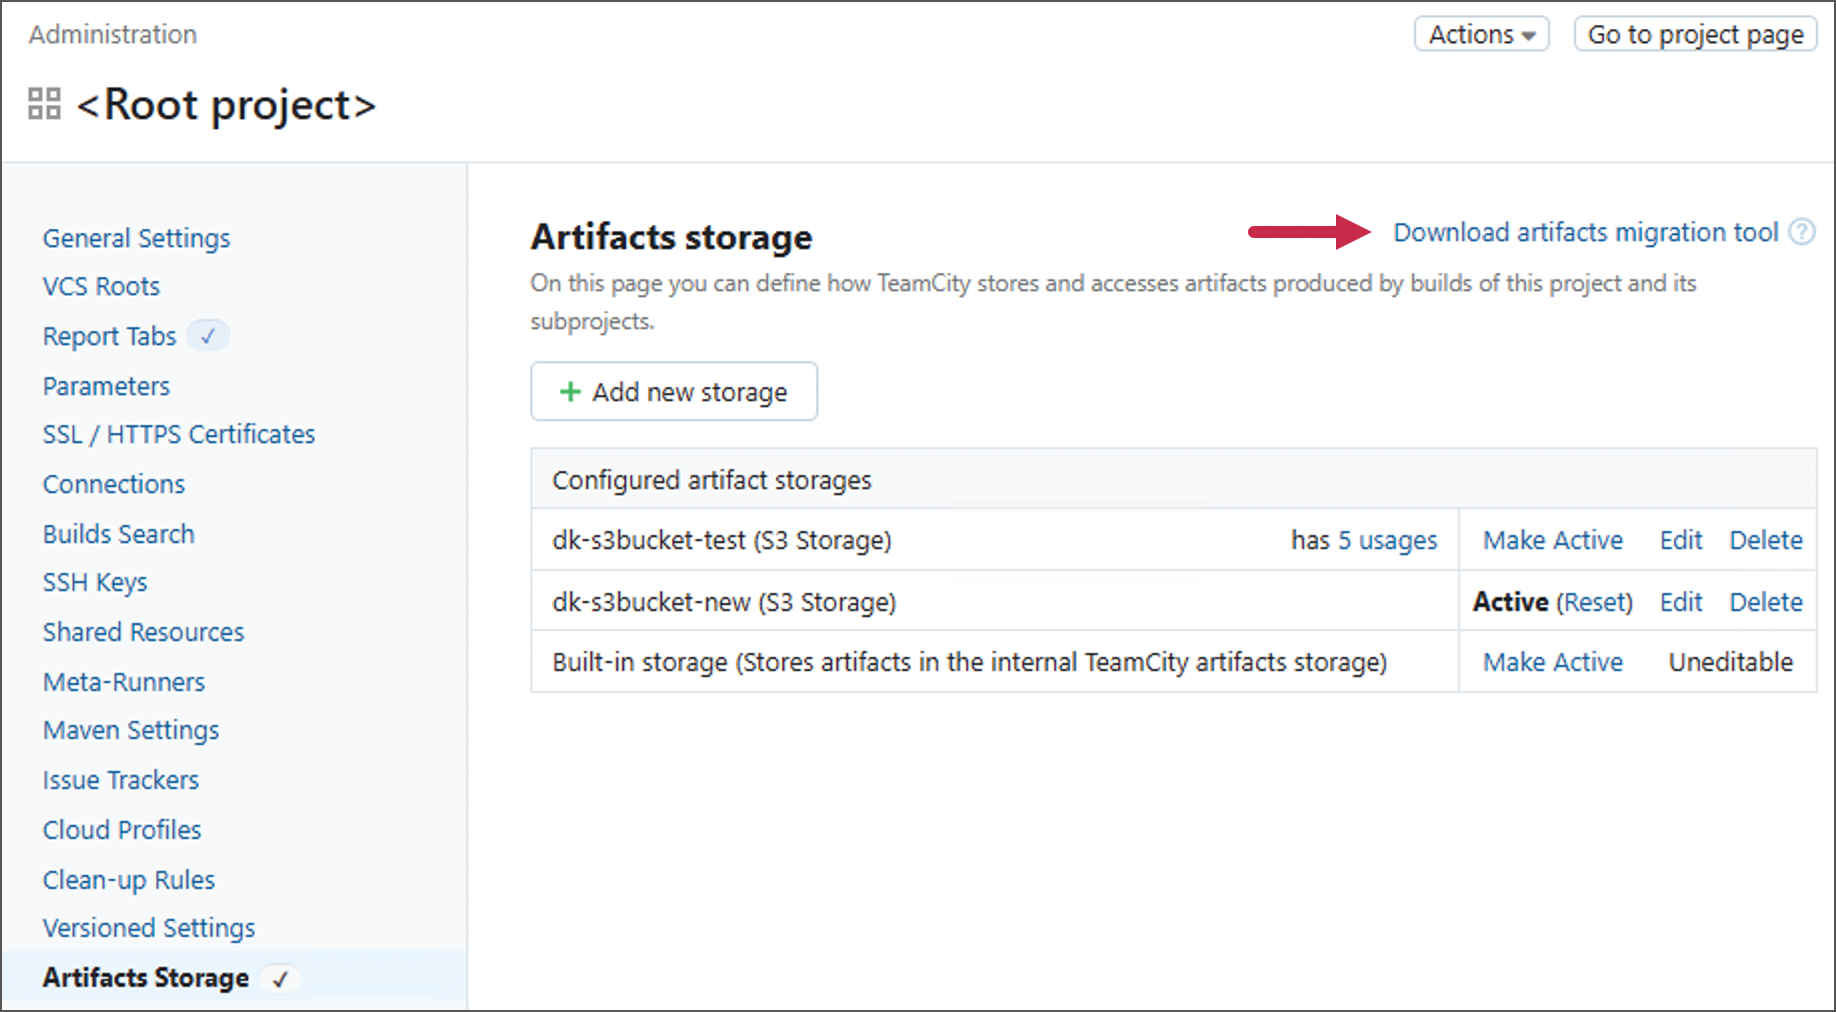
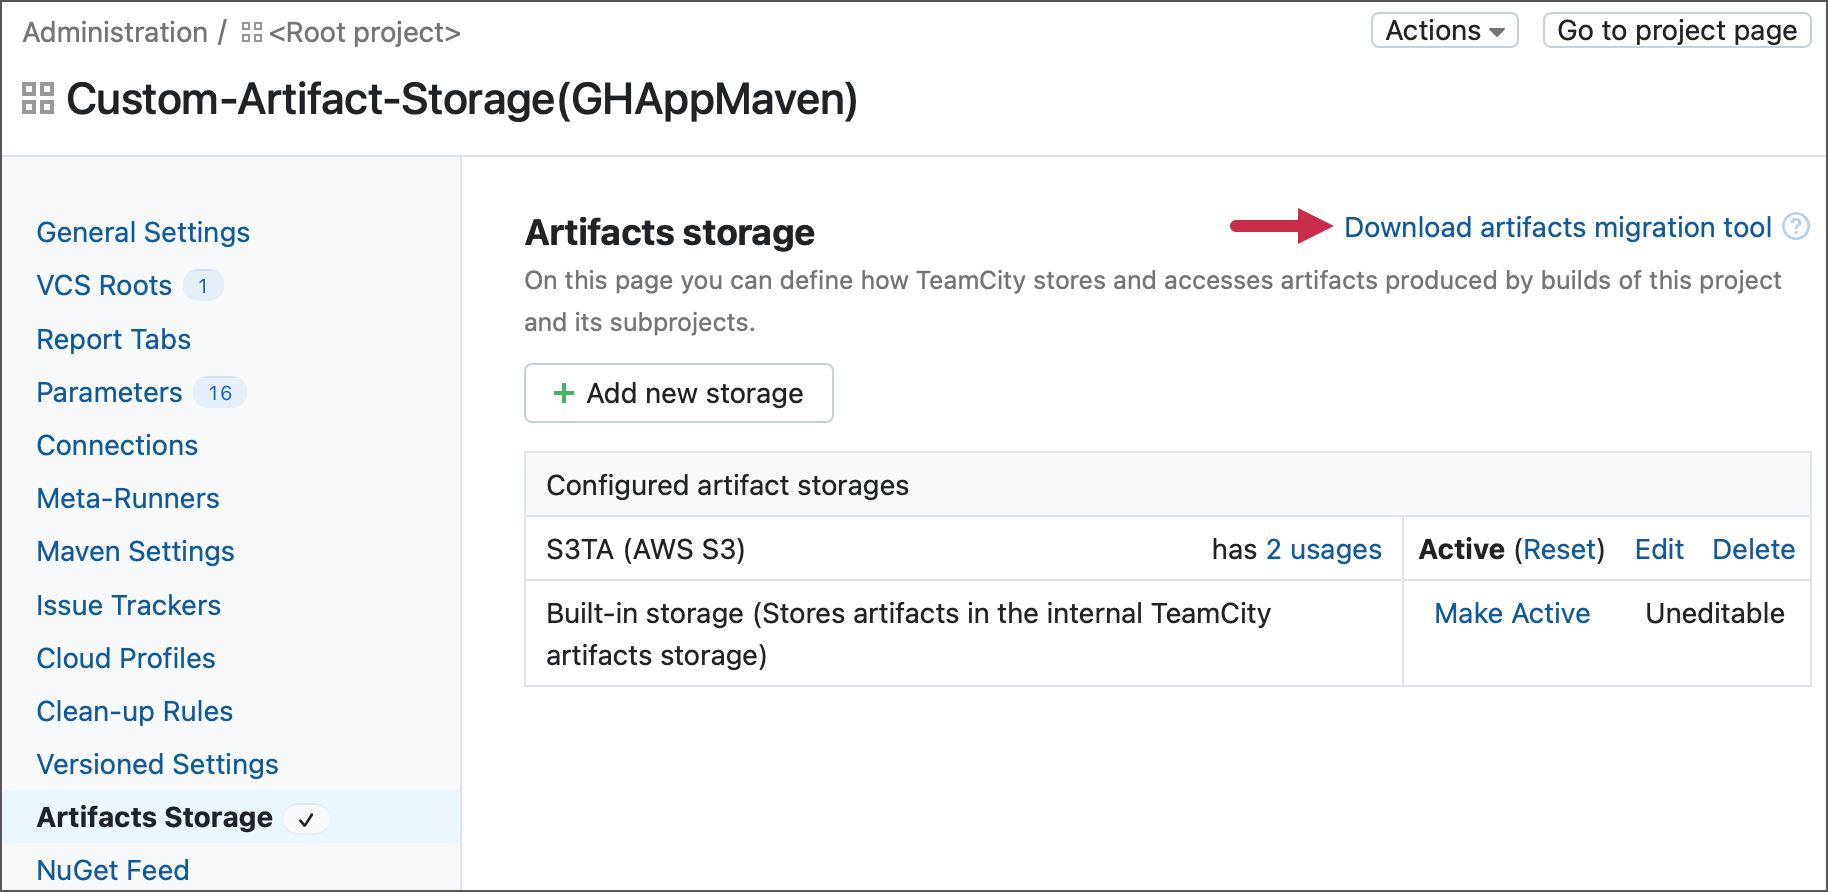
TW-80727, TW-83811, TW-83125, TW-83856 -- S3 redesign updates

diff --git a/topics/storing-build-artifacts-in-amazon-s3.md b/topics/storing-build-artifacts-in-amazon-s3.md
@@ -8,74 +8,82 @@ It is possible to replace the TeamCity built-in artifacts' storage with [Amazon 
 * handles resolution of artifact dependencies as well as clean-up of artifacts;
 * displays artifacts located externally in the TeamCity UI.
 
-<include src="configuring-artifacts-storage.md" include-id="artifactMigrationToS3"/>
 
-## Configuring Amazon S3 Artifacts Storage
-{id="configuring-amazon-s3-artifacts-storage"}
+## Create and Set Up a New AWS S3 Storage
 
-To enable an external artifact storage in an AWS S3 bucket:
-1. Open __Project Settings | Artifacts Storage__. The built-in TeamCity artifacts storage is displayed by default and marked as active.
-2. Click __Add new storage__. Select _S3 Storage_ as the storage type. 
-3. [__Storage ID__](identifier.md) is filled out automatically. You can modify it with your own unique ID.
-4. Enter an optional name for your storage.
-5. Select the AWS environment and provide the required settings.
-6. Provide your AWS security credentials.
-7. Specify an existing S3 bucket to store artifacts.
-8. Save your settings.
+1. Navigate to the **Administration | &lt;Your_Project&gt;** page and switch to the **Artifacts Storage** tab.
 
-The configured S3 storage will appear on the __Artifacts Storage__ page. To enable it in this project, change its state to _Active_.
+   * Open settings of a &lt;Root project&gt; if you want your new storage to be available for all TeamCity projects.
+   * Edit one specific project if your new storage should be available only for this project and its sub-projects.
 
-Now, new artifacts produced by builds of this project and its subprojects will be stored in the specified AWS S3 bucket.
+2. The built-in TeamCity artifacts storage is displayed by default and marked as active. Click **Add new storage** button to create a new storage.
 
-<anchor name="pathPrefix"/>
+3. Specify the custom storage name and, if needed, its internal [ID](identifier.md).
 
-## Path Prefix
+4. Set the **Type** field to "AWS S3".
 
-You can set an S3 [path prefix](https://docs.aws.amazon.com/AmazonS3/latest/user-guide/using-folders.html). This allows using the same S3 bucket for all TeamCity projects and configure prefix-based permissions.
+5. Choose an existing [AWS Connection](configuring-connections.md#AmazonWebServices) that TeamCity should use to access your Amazon resources.<anchor name="permissions"/> A user whose credentials the selected AWS Connection uses (or an IAM Role it assumes) to access the S3 buckets should have the following permissions:
 
-<anchor name="forceVirtualHostAddressing"/>
+   * `ListAllMyBuckets`
+   * `GetBucketLocation`
+   * `GetObject`
+   * `ListBucket`
+   * `PutObject`
+   * `DeleteObject`
+   * `GetAccelerateConfiguration` (if [Transfer Acceleration](#TransferAcceleration) is enabled)
+    
+    > <anchor name="transferToConnection"/>In previous TeamCity versions, the **Artifacts Storage** dialog allowed you to explicitly specify connection settings: access key credentials, user IAM role, and whether TeamCity should look for credentails in the default AWS locations (the **Default provider chain** setting).
+    > 
+    > Starting with version 2023.11, these settings are exclusive to [AWS Connections](configuring-connections.md#AmazonWebServices). If you're migrating from an older version of TeamCity and your existing storages used any of these settings, click the **Convert to AWS Connection** link. This action transfers AWS-related settings to a new AWS Connection, and selects this new connection as the source connection of your storage.
+    >
+    {type="tip"}
+    
+6. TeamCity uses the selected AWS Connection to retrieve the list of available S3 buckets. Open the **Bucket** drop-down menu to choose a specific item from the list.
 
-## Virtual Host Addressing
+7. <anchor name="pathPrefix"/>(Optional) Specify the [path prefix](https://docs.aws.amazon.com/AmazonS3/latest/user-guide/using-folders.html) if you want to use the same S3 bucket for all TeamCity projects and configure prefix-based permissions.
 
-You can enable the virtual host addressing for S3 buckets. Currently, both hosted-style and path-style requests are supported by TeamCity. Note that Amazon [stopped supporting path-style access](https://docs.aws.amazon.com/AmazonS3/latest/dev/VirtualHosting.html#path-style-access) for new buckets since September 2020.
+8. Amazon S3 buckets support two options to speed up file uploads and downloads:
 
-<!-- 
-## Transfer Acceleration
+   * [AWS CloudFront](https://aws.amazon.com/cloudfront/) — a content delivery network (CDN) that allows TeamCity to transfer arifacts using low-latency CloudFront servers nearby.
+   * <anchor name="TransferAcceleration"/>[Transfer Acceleration](https://aws.amazon.com/s3/transfer-acceleration/) — a bucket-level feature designed to optimize transfer speeds from across the world into centralized S3 buckets. It enables fast, easy, and secure transfers of files over long distances between your client and an S3 bucket.
+    
+    If your bucket is configured to use Transfer Acceleration or CloudFront, choose the corresponding option under the **Transfer speed-up** section. Otherwise, if you wish TeamCity to transfer files in the regular mode, choose the **None** type.
 
-<anchor name="transferAcceleration"/>
+    <img src="dk-s3-speedUpMode.png" width="706" alt="S3 Transfer SpeedUp Mode"/>
+    
+    > Choosing the **AWS CloudFront** option requires setting up additional fields. See this section for more information: [](#CloudFrontSettings).
+    > 
+    {type="note"}
 
-You can enable transfer acceleration for uploads and downloads if the following requirements are met:
+    > Using Transfer Acceleration applies the following restrictions:
+    >
+    > * The [virtual host addressing](#forceVirtualHostAddressing) is always on. Path-style requests are not supported.
+    > * Transfer Acceleration must be enabled on your S3 bucket.
+    > * The bucket name must be DNS-compliant (must not contain periods `.`).
+    > * User credentials or IAM role the AWS Connection uses to access your bucket must include the `GetAccelerateConfiguration` permission.
+    >
+    {type="note"}
 
-* Transfer acceleration can only be enabled together with **virtual host addressing**. It does not work with path-style requests.
-* You need to enable transfer acceleration on your S3 bucket.
-* You bucket name must be DNS-compliant and must not contain periods `.`
+9. <anchor name="multipartUpload"/>To optimize the [upload of large files](https://aws.amazon.com/premiumsupport/knowledge-center/s3-upload-large-files/) to [Amazon S3](storing-build-artifacts-in-amazon-s3.md), you can enable the [multipart upload](https://docs.aws.amazon.com/AmazonS3/latest/userguide/mpuoverview.html). To do this, tick the **Customize threshold and part size** setting and set the multipart upload threshold. The minimum allowed value is `5MB`. Supported suffixes: `KB`, `MB`, `GB`, `TB`. If you leave this field empty, multipart upload will be initiated automatically for all files larger than 8 MB (`8MB` is the default value).
 
-When the "_Transfer Acceleration_" option is enabled, the provided AWS credentials or IAM role on the TeamCity server should have the `GetAccelerateConfiguration` permission. 
+    <img src="dk-s3-multipart.png" width="706" alt="Multipart upload"/>
 
-For more information see [AWS documentation](https://docs.aws.amazon.com/AmazonS3/latest/userguide/transfer-acceleration.html)
--->
+    Additionally, you can configure the maximum allowed size of each uploaded file part. The minimum value is `5MB`. If left empty, TeamCity will use `8MB` as the default value.
+    
+    > We recommend that you configure a [bucket lifecycle policy](https://docs.aws.amazon.com/AmazonS3/latest/userguide/mpu-abort-incomplete-mpu-lifecycle-config.html) to prevent incomplete multipart uploads.
+    >
+    {type="tip"}
 
-## Permissions
+10. <anchor name="forceVirtualHostAddressing"/>Check the **Force virtual host addressing** option to enable the [corresponding feature](https://docs.aws.amazon.com/AmazonS3/latest/userguide/VirtualHosting.html). Currently, both hosted-style and path-style requests are supported by TeamCity. Note that Amazon [stopped supporting path-style access](https://docs.aws.amazon.com/AmazonS3/latest/dev/VirtualHosting.html#path-style-access) for new buckets since September 2020.
 
-When the "_Use Pre-Signed URLs for upload_" option is enabled, the provided AWS credentials or IAM role on the TeamCity server should have permissions: `DeleteObject, ListAllMyBuckets, GetBucketLocation, GetObject, ListBucket, PutObject`.
+    > This setting cannot be disabled if your storage uses [Transfer Acceleration](#TransferAcceleration).
+    >
+    {type="note"}
 
-When the "Use Pre-Signed URLs for upload" option is disabled:
-* the provided AWS credentials or IAM role on the TeamCity server should have permissions: `DeleteObject, ListAllMyBuckets, GetBucketLocation, GetObject`
-* either AWS credentials should be specified and have `ListBucket, PutObject` permissions, or IAM role on all the TeamCity agents should have permissions: `ListBucket, PutObject`
+11. Tick **Verify file integrity after upload** to allow TeamCity to perform an additional [check-up on uploaded files](https://docs.aws.amazon.com/AmazonS3/latest/userguide/checking-object-integrity.html#checking-object-integrity-md5). If the integrity verification fails, TeamCity writes a corresponding message to the build log.
 
 
-<chunk id="S3multipartUpload">
 
-## Multipart Upload
-<anchor name="multipartUpload"/>
-
-To optimize the [upload of large files](https://aws.amazon.com/premiumsupport/knowledge-center/s3-upload-large-files/) to [Amazon S3](storing-build-artifacts-in-amazon-s3.md), you can initiate [multipart upload](https://docs.aws.amazon.com/AmazonS3/latest/userguide/mpuoverview.html) instead of regular upload. To do this, set the multipart upload threshold in the _Connection Settings_ block. The minimum allowed value is `5MB`. Supported suffixes: `KB`, `MB`, `GB`, `TB`. If you leave this field empty, multipart upload will be initiated automatically for all files larger than 8 MB (`8MB` is the default value).
-
-Additionally, you can configure the maximum allowed size of each uploaded file part. The minimum value is `5MB`. If left empty, TeamCity will use `8MB` as the default value.
-
->We recommend that you configure a [bucket lifecycle policy](https://docs.aws.amazon.com/AmazonS3/latest/userguide/mpu-abort-incomplete-mpu-lifecycle-config.html) to prevent incomplete multipart uploads.
-
-</chunk>
 
 
 ## Transferring Artifacts via CloudFront
@@ -245,4 +253,6 @@ For accessing a public bucket:
 }
 ```
 
+## Migrating Artifacts To a Different Storage
 
+<include src="configuring-artifacts-storage.md" include-id="artifactMigrationToS3"/>

diff --git a/topics/what-s-new-in-teamcity.md b/topics/what-s-new-in-teamcity.md
@@ -116,6 +116,24 @@ We have overhauled the Amazon EC2 integration plugin. Apart from a refreshed loo
 Learn more: [](setting-up-teamcity-for-amazon-ec2.md).
 
 
+### S3 Plugin Update
+{product="tc"}
+
+Version 2023.11 ships an updated S3 plugin that allows you to create AWS S3 and S3-compatible storages for your build artifacts.
+
+<img src="dk-s3-storage-overview.png" width="706" alt="Updated S3 Plugin"/>
+
+The updated plugin version features the following enhancements:
+
+* Buckets with enabled [Transfer Acceleration](https://aws.amazon.com/s3/transfer-acceleration/) are supported.
+* All connection settings are automatically retrieved from the selected [AWS Connection](configuring-connections.md#AmazonWebServices).
+* The AWS region is automatically retrieved from the selected bucket.
+* You can now disable integrity verification that TeamCity carries out by default for all custom S3 storages.
+
+
+Learn more: [](storing-build-artifacts-in-amazon-s3.md) | [Upgrade Notes](upgrade-notes.md#2023-11-s3-update)
+
+
 ### AWS Connection Improvements
 {product="tc"}
 

diff --git a/topics/configuring-artifacts-storage.md b/topics/configuring-artifacts-storage.md
@@ -34,14 +34,16 @@ Google Cloud Artifact Storage is implemented as a [plugin](https://plugins.jetbr
 
 
 
-<chunk include-id="artifactMigrationToS3">
+
 
 ## Migrating Artifacts To a Different Storage
 <anchor name="migratingArtifactsToS3"/>
 
+<chunk include-id="artifactMigrationToS3">
+
 TeamCity server ships with [a command-line tool](artifacts-migration-tool.md) that transfers build artifacts from one storage to another. You can download this tool on the __Project Settings | Artifacts Storage__ page.
 
-<img src="dk-downloadAMTool.png" width="708" alt="Download artifacts migration tool"/>
+<img src="dk-downloadAMTool.png" width="706" alt="Download artifacts migration tool"/>
 
 Currently, the tool supports the following migration routes:
 
@@ -49,6 +51,8 @@ Currently, the tool supports the following migration routes:
 * From one Amazon S3 bucket to another
 
 We're working on supporting other cloud storage options as well.
+
+Learn more: [](artifacts-migration-tool.md).
 
 </chunk>
 

diff --git a/topics/upgrade-notes.md b/topics/upgrade-notes.md
@@ -14,6 +14,16 @@
   > 
   {type="note"}
 
+### S3 Plugin Updates
+{id="2023-11-s3-update"}
+
+Due to the [S3 Plugin overhaul](what-s-new-in-teamcity.md#S3+Plugin+Update), the following settings are no longer available:
+
+* The **Use pre-signed URLs** feature is available by default and cannot be disabled.
+* The **Access Key ID**, **Secret Access Key**, **IAM Role** and **Default provider chain** options can be customized only within an [AWS Connection](configuring-connections.md#AmazonWebServices) this custom storage uses. When you view or edit an S3 bucket that employed any of these settings, TeamCity shows the **Convert to AWS Connection** link that allows you to transfer them to a new AWS Connection.
+* The **AWS Region** is now automatically retrieved from the selected storage.
+* The **Open IAM Console** link is hidden.
+
 ## Changes from 2023.05.3 to 2023.05.4
 
 No potential breaking changes.
